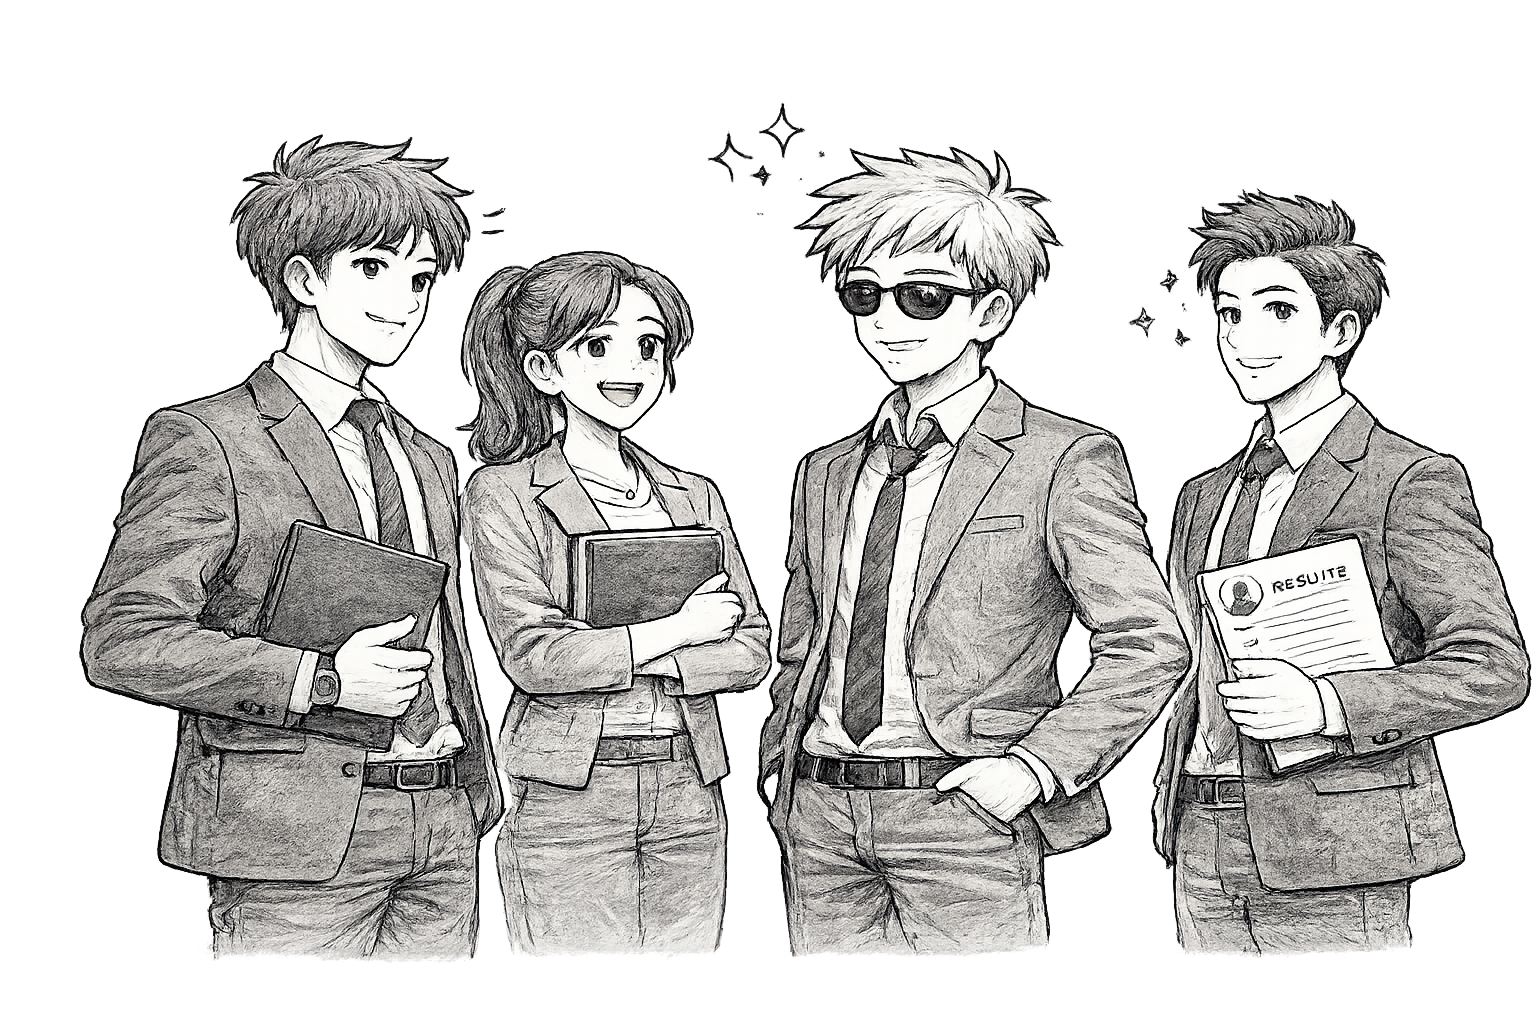
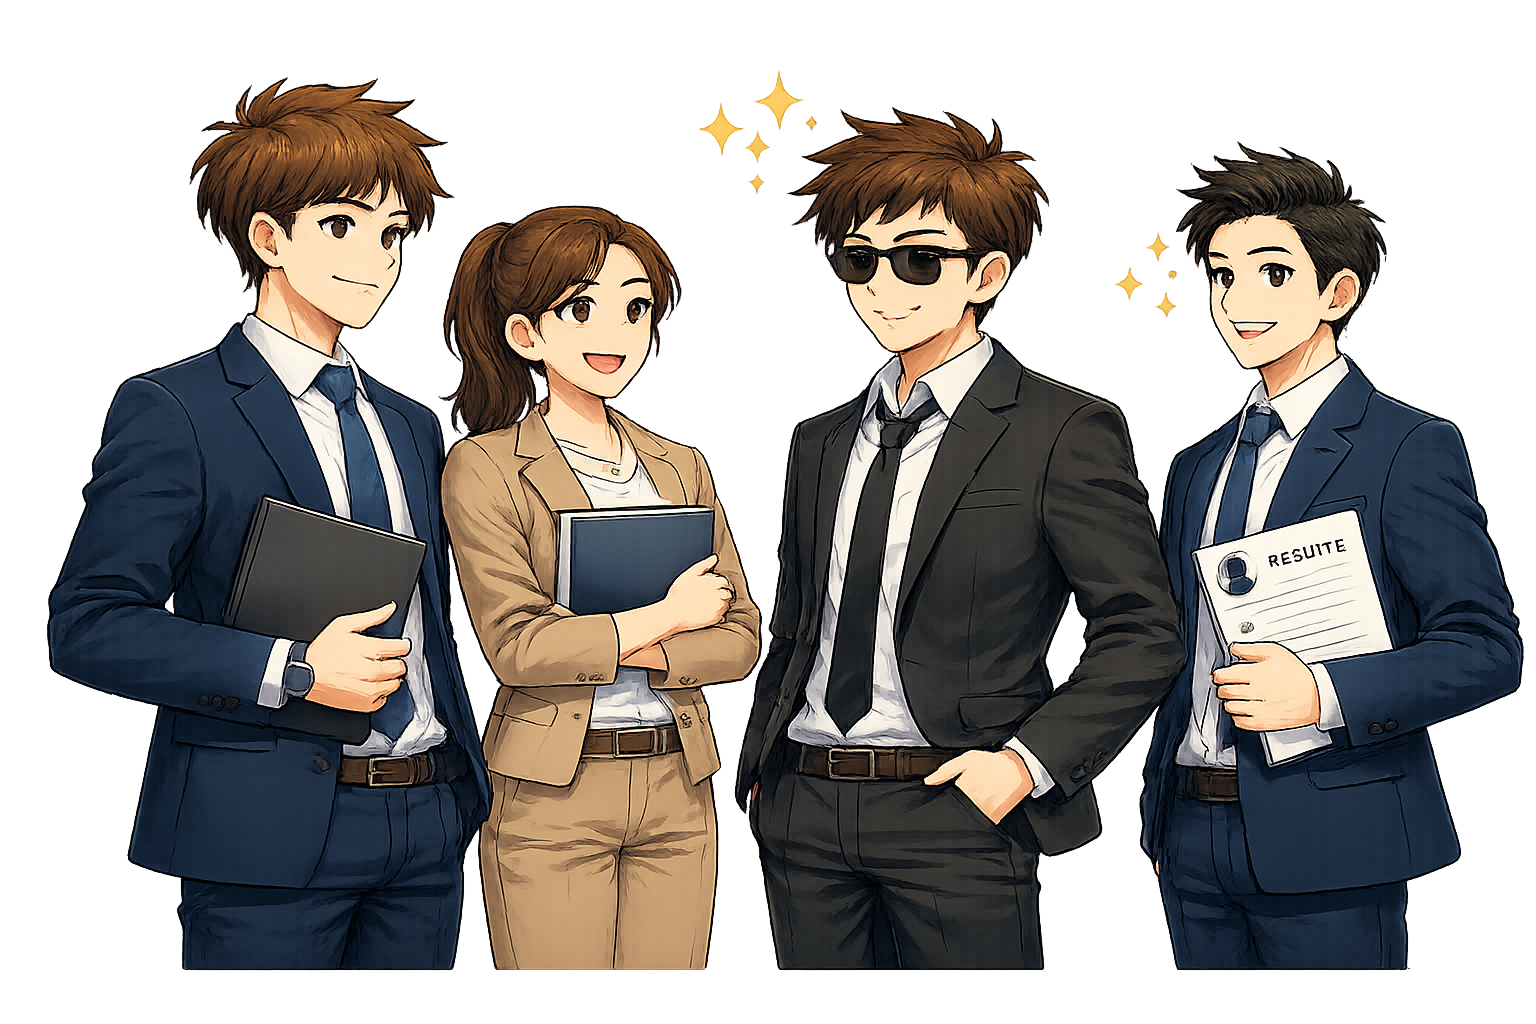
Polish landing navigation and reviews

diff --git a/app/globals.css b/app/globals.css
@@ -4068,10 +4068,11 @@ body.main-app-dark .form-message {
 	top: 0;
 	z-index: 100;
 	width: 100%;
-	border-bottom: 1px solid rgba(26, 24, 21, 0.06);
-	background: rgba(247, 245, 242, 0.82);
-	backdrop-filter: blur(18px) saturate(1.15);
-	-webkit-backdrop-filter: blur(18px) saturate(1.15);
+	border-bottom: 1px solid rgba(26, 24, 21, 0.09);
+	background: rgba(247, 245, 242, 0.92);
+	box-shadow: 0 8px 26px rgba(34, 29, 22, 0.045);
+	backdrop-filter: blur(22px) saturate(1.18);
+	-webkit-backdrop-filter: blur(22px) saturate(1.18);
 	transform: translateY(0);
 	transition:
 		transform 0.32s ease,
@@ -4085,13 +4086,14 @@ body.main-app-dark .form-message {
 }
 
 .nav-content {
-	display: flex;
+	display: grid;
+	grid-template-columns: minmax(140px, 1fr) auto minmax(140px, 1fr);
 	align-items: center;
-	justify-content: space-between;
 	height: 68px;
 }
 
 .landing-wordmark {
+	justify-self: start;
 	color: #17130f;
 	font-family: var(--font-display);
 	font-size: 28px;
@@ -4112,21 +4114,24 @@ body.main-app-dark .form-message {
 .nav-links {
 	display: flex;
 	align-items: center;
+	justify-self: center;
 	gap: 6px;
-	border: 1px solid rgba(35, 31, 27, 0.08);
+	border: 1px solid rgba(35, 31, 27, 0.11);
 	border-radius: 999px;
 	padding: 5px;
-	background: rgba(255, 253, 248, 0.58);
-	box-shadow: inset 0 1px 0 rgba(255, 255, 255, 0.65);
+	background: rgba(255, 253, 248, 0.78);
+	box-shadow:
+		0 1px 2px rgba(31, 27, 22, 0.04),
+		inset 0 1px 0 rgba(255, 255, 255, 0.72);
 }
 
 .nav-links a {
 	position: relative;
 	border-radius: 999px;
 	padding: 8px 13px;
-	color: rgba(17, 17, 17, 0.72);
+	color: rgba(17, 17, 17, 0.76);
 	font-size: 12px;
-	font-weight: 500;
+	font-weight: 600;
 	transition:
 		background 0.2s ease,
 		color 0.2s ease,
@@ -4157,21 +4162,22 @@ body.main-app-dark .form-message {
 	display: inline-flex;
 	align-items: center;
 	justify-content: center;
-	border: 1px solid rgba(17, 17, 17, 0.1);
+	justify-self: end;
+	border: 1px solid rgba(17, 17, 17, 0.82);
 	padding: 10px 18px;
-	background: rgba(255, 253, 248, 0.72);
-	box-shadow: 0 1px 2px rgba(30, 24, 18, 0.05);
-	color: #111;
-	font-weight: 500;
+	background: #17130f;
+	box-shadow: 0 8px 18px rgba(23, 19, 15, 0.1);
+	color: #fffdf8;
+	font-weight: 600;
 }
 
 .nav-button:hover,
 .showcase-info button:hover,
 .showcase-link:hover {
-	background: #111;
+	background: #2a251f;
 	color: #fff;
 	transform: translateY(-1px);
-	box-shadow: 0 10px 24px rgba(17, 17, 17, 0.14);
+	box-shadow: 0 12px 26px rgba(17, 17, 17, 0.16);
 }
 
 .nav-button:active,
@@ -4847,9 +4853,20 @@ body.main-app-dark .form-message {
 }
 
 .stars {
+	display: inline-flex;
+	align-items: center;
+	justify-content: center;
+	gap: 6px;
 	margin-bottom: 18px;
-	font-size: 24px;
-	letter-spacing: 3px;
+	color: #c58b26;
+	line-height: 1;
+}
+
+.stars svg {
+	width: 18px;
+	height: 18px;
+	fill: currentColor;
+	stroke-width: 1.6;
 }
 
 .quote-section blockquote {
@@ -5495,19 +5512,25 @@ body.main-app-dark .form-message {
 	}
 
 	.nav-content {
-		flex-wrap: wrap;
-		gap: 14px;
+		grid-template-columns: minmax(0, 1fr) auto;
+		gap: 14px 12px;
 		height: auto;
 		padding: 18px 0;
 	}
 
 	.nav-links {
 		order: 3;
+		grid-column: 1 / -1;
 		flex-wrap: wrap;
 		justify-content: center;
+		justify-self: stretch;
 		gap: 4px;
 		width: 100%;
 		border-radius: 16px;
+	}
+
+	.nav-button {
+		padding: 9px 13px;
 	}
 
 	.nav-links a {

diff --git a/app/page.tsx b/app/page.tsx
@@ -4,6 +4,7 @@ import { useEffect, useMemo, useRef, useState } from "react";
 import Link from "next/link";
 import { useRouter } from "next/navigation";
 import type { User } from "@supabase/supabase-js";
+import { Star } from "lucide-react";
 import LandingCta from "@/components/LandingCta";
 import LoadingScreen from "@/components/LoadingScreen";
 import { supabase } from "@/lib/supabase/client";
@@ -12,6 +13,7 @@ type FeatureKey = "ats" | "jd" | "roast" | "skills" | "optimize";
 type BenefitKey = "students" | "jobseekers" | "switchers";
 
 const asset = (path: string) => `/assets/${path}`;
+const ratingStars = [0, 1, 2, 3, 4];
 
 const featureContent: Record<
   FeatureKey,
@@ -362,7 +364,7 @@ export default function Home() {
           </div>
 
           <LandingCta className="nav-button" href={isSignedIn ? "/feed" : "/submit"} isSignedIn={isSignedIn}>
-            {authReady && isSignedIn ? "Enter app" : "Post your resume"}
+            {authReady && isSignedIn ? "Enter app" : "Sign up now"}
           </LandingCta>
         </div>
       </nav>
@@ -545,7 +547,11 @@ export default function Home() {
         </section>
 
         <section className="quote-section" id="proof">
-          <div className="stars">*****</div>
+          <div className="stars" aria-label="Five star review">
+            {ratingStars.map((star) => (
+              <Star aria-hidden="true" key={star} />
+            ))}
+          </div>
           <blockquote>
             &quot;The best comment read like a lint error: exact line, exact problem,
             exact fix.&quot;
@@ -596,7 +602,11 @@ export default function Home() {
         </section>
 
         <section className="quote-section second-quote">
-          <div className="stars">*****</div>
+          <div className="stars" aria-label="Five star review">
+            {ratingStars.map((star) => (
+              <Star aria-hidden="true" key={star} />
+            ))}
+          </div>
           <blockquote>
             &quot;My resume did not need a generic score. It needed someone to point at
             the bug and tell me the fix.&quot;
